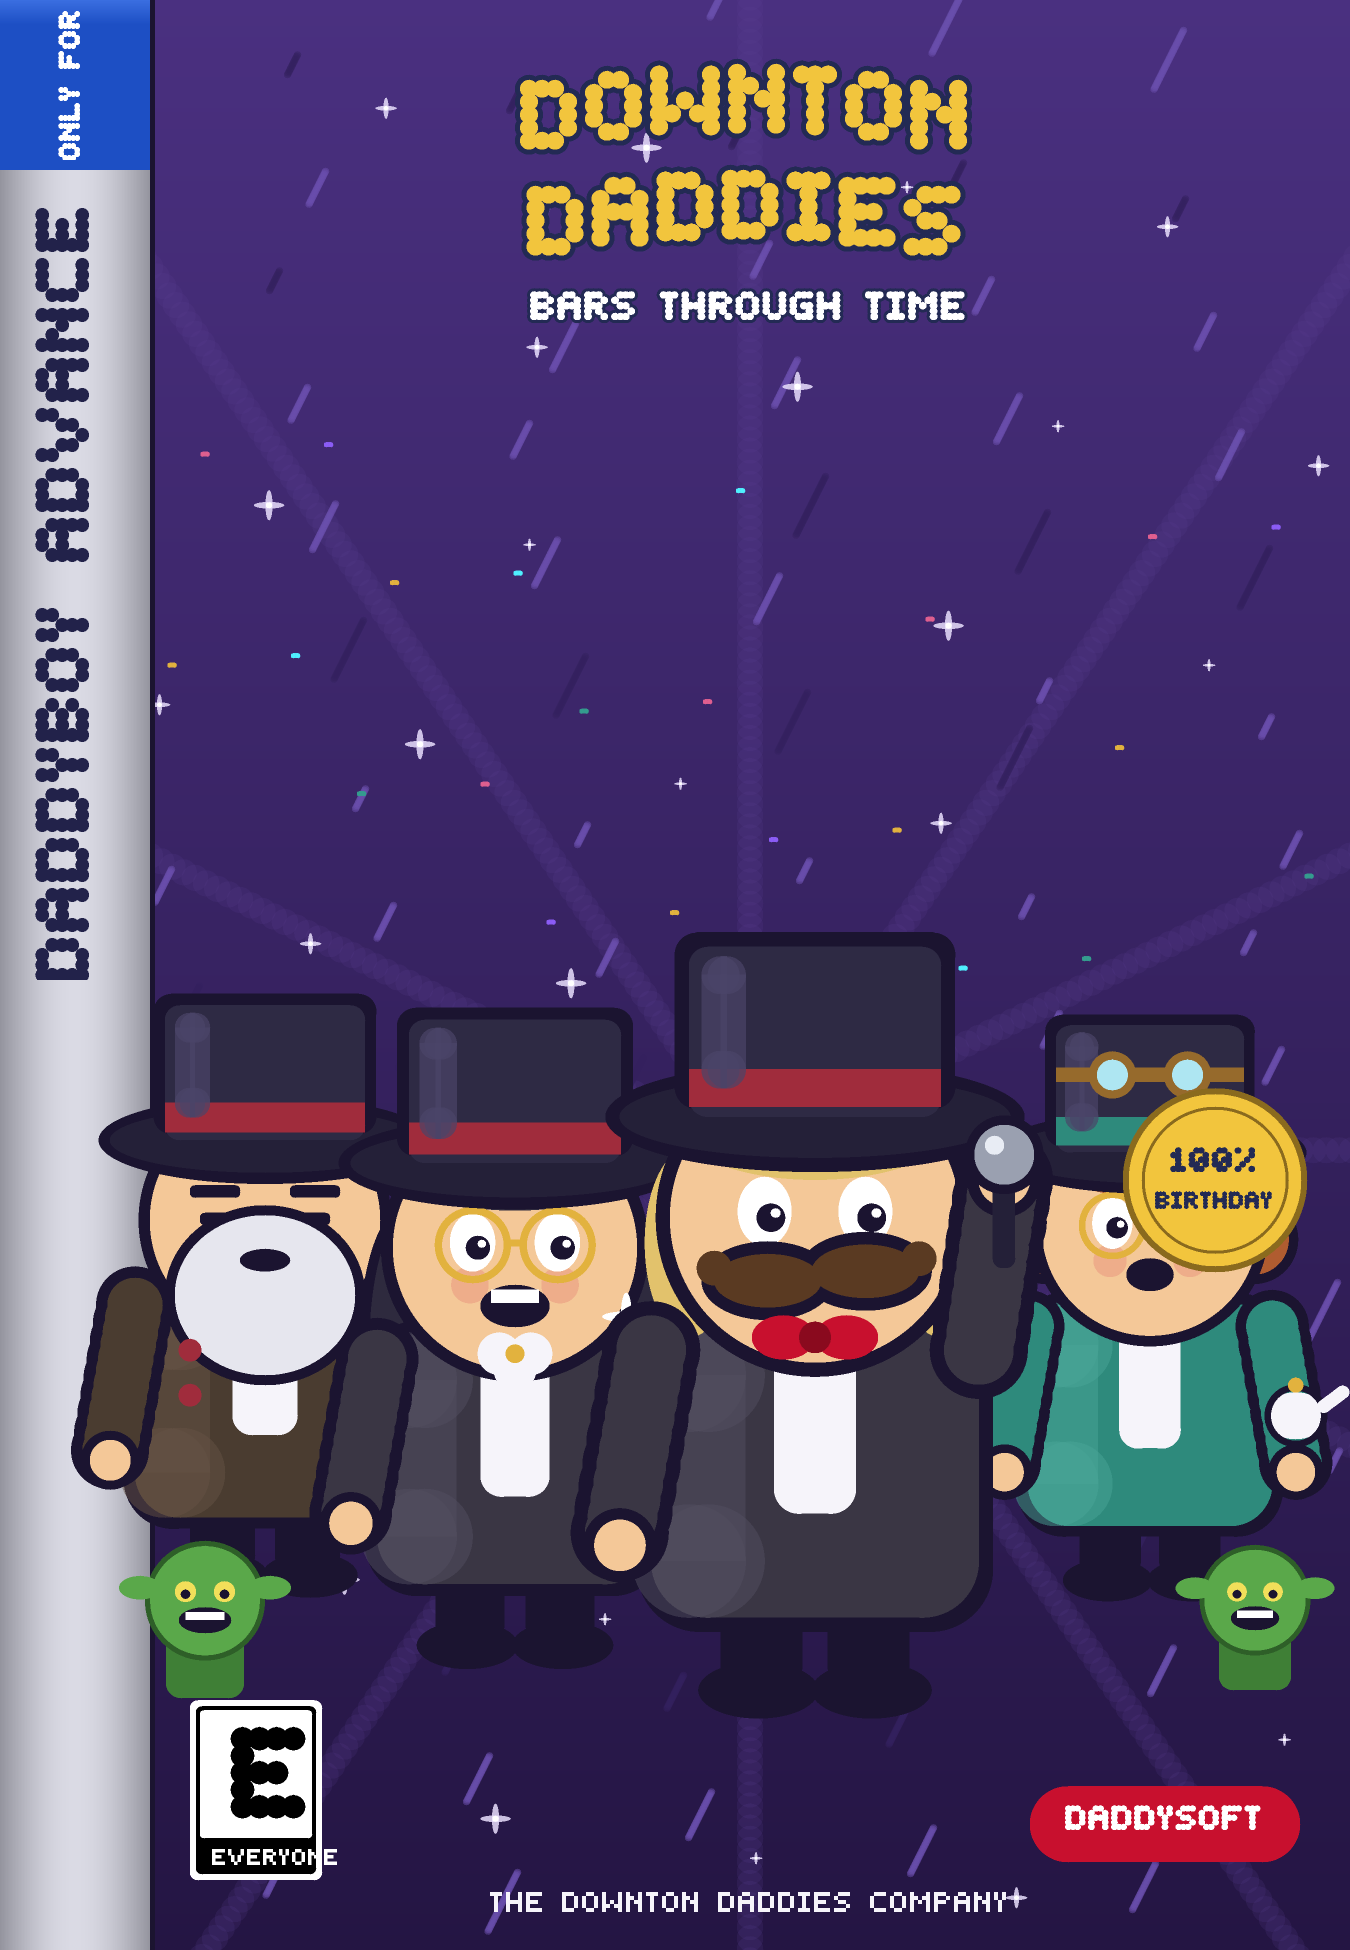
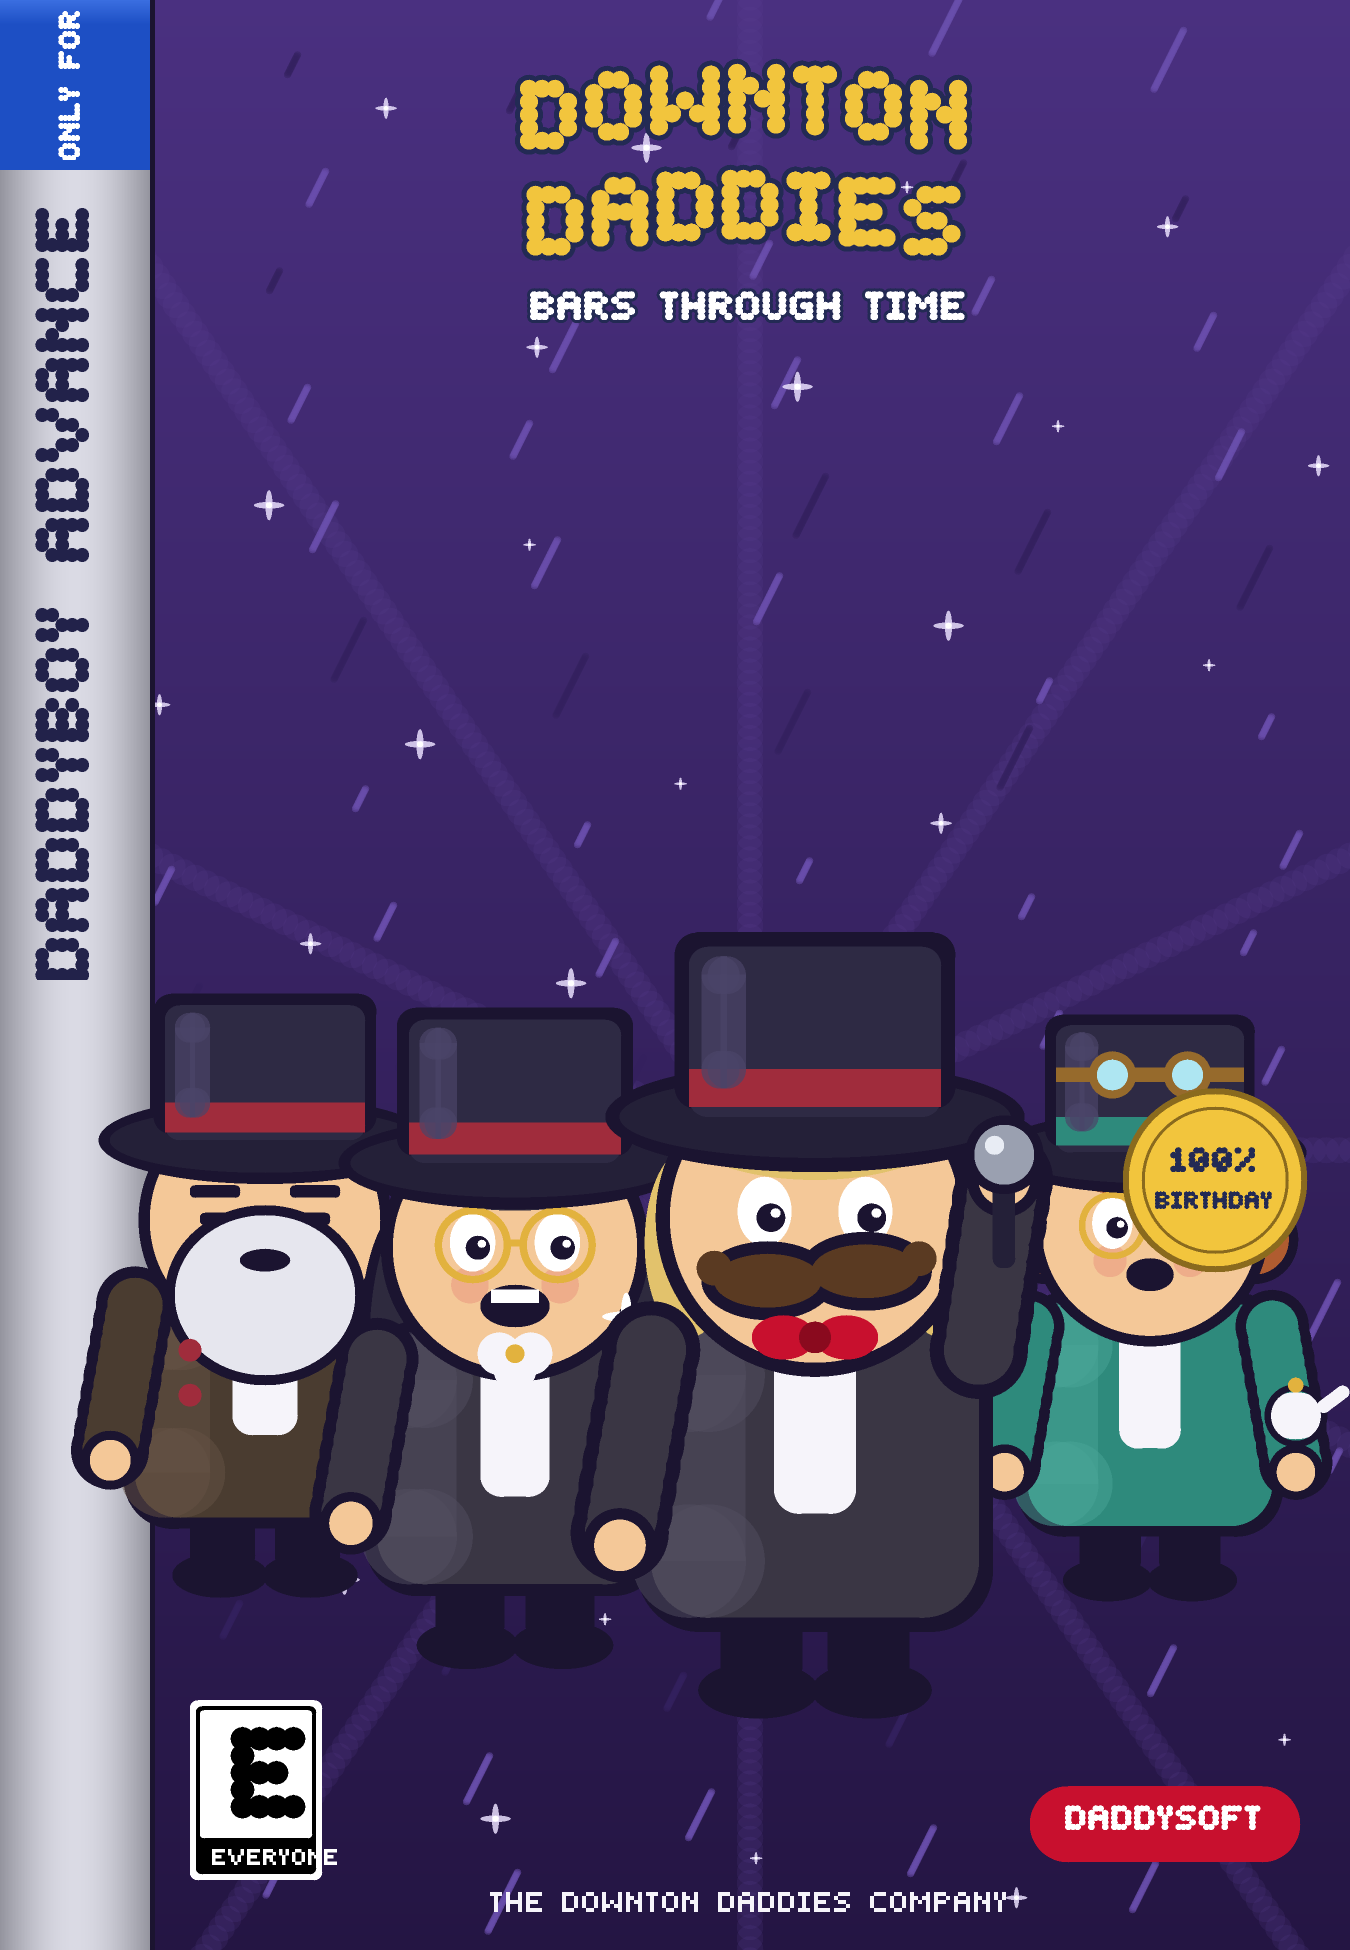
Box art v4: composite external anime-style hero art into the Emerald chrome
The front cover now takes a generated illustration (Downloads/cover-art.png|jpg,
or ART=path) and cover-fits it full-bleed under the authentic GBA chrome: silver
band, blue ONLY FOR tab, arched logo with legibility scrims, E-EVERYONE rating,
100% BIRTHDAY seal, DADDYSOFT oval. Falls back to the drawn field when no art
file exists. PNG+JPEG decoding via pngjs/jpeg-js (tool-side only).

Changed region(s): [[0.0933, 0.7692, 0.2178, 0.8923], [0.8711, 0.7692, 0.9956, 0.8923]]

diff --git a/tools/make-boxart.js b/tools/make-boxart.js
@@ -104,6 +104,40 @@ function save(buf, file) {
   console.log('  print/' + file + ' (1350x1950 @300dpi = 4.5x6.5in)');
 }
 
+/* ---------- external hero art (PNG/JPEG from an image generator) ---------- */
+const SCRATCH = '/private/tmp/claude-501/-Users-pationeill-Desktop-dd-advance-kit/c9853315-07c0-48fc-8efd-b6efac7ce17c/scratchpad/node_modules';
+function loadImage(p2) {
+  const b = fs.readFileSync(p2);
+  if (p2.match(/\.png$/i)) { const { PNG } = require(SCRATCH + '/pngjs'); const img = PNG.sync.read(b); return { w: img.width, h: img.height, data: img.data }; }
+  const jpeg = require(SCRATCH + '/jpeg-js'); const img = jpeg.decode(b, { maxMemoryUsageInMB: 1024 }); return { w: img.width, h: img.height, data: img.data };
+}
+function findArt() {
+  const cands = [process.env.ART,
+    '/Users/pationeill/Downloads/cover-art.png', '/Users/pationeill/Downloads/cover-art.jpg',
+    '/Users/pationeill/Downloads/cover-art.jpeg', '/Users/pationeill/Downloads/cover-art 2.png'].filter(Boolean);
+  for (const c of cands) if (fs.existsSync(c)) return c;
+  return null;
+}
+/* cover-fit `img` into buffer region (bilinear), cropping overflow centered */
+function coverBlit(buf, img, x0, y0, rw, rh) {
+  const sc = Math.max(rw / img.w, rh / img.h);
+  const cw = rw / sc, ch = rh / sc;                 // source crop size
+  const cx0 = (img.w - cw) / 2, cy0 = (img.h - ch) / 2;
+  for (let y = 0; y < rh; y++) for (let x = 0; x < rw; x++) {
+    const sx = cx0 + x / sc, sy = cy0 + y / sc;
+    const x1 = Math.min(img.w - 1, Math.floor(sx)), y1 = Math.min(img.h - 1, Math.floor(sy));
+    const x2 = Math.min(img.w - 1, x1 + 1), y2 = Math.min(img.h - 1, y1 + 1);
+    const fx = sx - x1, fy = sy - y1;
+    const di = ((y0 + y) * W + (x0 + x)) * 4;
+    for (let c = 0; c < 3; c++) {
+      const a = img.data[(y1 * img.w + x1) * 4 + c] * (1 - fx) + img.data[(y1 * img.w + x2) * 4 + c] * fx;
+      const b2 = img.data[(y2 * img.w + x1) * 4 + c] * (1 - fx) + img.data[(y2 * img.w + x2) * 4 + c] * fx;
+      buf[di + c] = a * (1 - fy) + b2 * fy;
+    }
+    buf[di + 3] = 255;
+  }
+}
+
 /* ---------- the glittery Emerald-style field (smooth, purple) ---------- */
 function field(K, cx, cy) {
   K.vgrad(0, 0, W, H, '#4a3080', '#241543');
@@ -289,7 +323,17 @@ console.log('composing front cover (smooth cartoon style)...');
 {
   const buf = makeBuf(); const K = kit(buf);
   const BAND = 150 * SS, CX = BAND + (W - BAND) / 2;
-  field(K, CX, 1150 * SS);
+  const artPath = findArt();
+  if (artPath) {
+    console.log('  hero art: ' + artPath);
+    coverBlit(buf, loadImage(artPath), BAND, 0, W - BAND, H);
+    /* soft scrims so the logo + bottom chrome pop over the painting */
+    for (let y = 0; y < 380 * SS; y++) { const a = 0.34 * (1 - y / (380 * SS)); K.rect(BAND, y, W - BAND, 1, '#1a0f2e', a); }
+    for (let y = 0; y < 220 * SS; y++) { const a = 0.4 * (y / (220 * SS)); K.rect(BAND, H - 220 * SS + y, W - BAND, 1, '#1a0f2e', a); }
+  } else {
+    console.log('  (no Downloads/cover-art.png yet — using the drawn field as placeholder)');
+    field(K, CX, 1150 * SS);
+  }
   /* vertical silver band */
   for (let x = 0; x < BAND; x++) { const t = x / BAND, v = Math.round(148 + 70 * Math.sin(t * Math.PI)); const c = [v, v, v + 10]; for (let y = 0; y < H; y++) K.set(x, y, c); }
   K.rect(BAND, 0, 5 * SS, H, INK);
@@ -311,16 +355,9 @@ console.log('composing front cover (smooth cartoon style)...');
   K.bubble('DOWNTON', CX - K.bubbleW('DOWNTON', 13 * SS) / 2, 66 * SS, 13 * SS, gold, navy, 5 * SS, 16 * SS);
   K.bubble('DADDIES', CX - K.bubbleW('DADDIES', 13 * SS) / 2, 172 * SS, 13 * SS, gold, navy, 5 * SS, 16 * SS);
   K.bubble('BARS THROUGH TIME', CX - K.bubbleW('BARS THROUGH TIME', 5.4 * SS) / 2, 292 * SS, 5.4 * SS, '#ffffff', navy, 3 * SS, 0);
-  /* ---- ALL FOUR DADS (smooth chibi cartoons) ---- */
-  drawHerschel(K, 265 * SS, 1575 * SS, 250 * SS);
-  drawRosalind(K, 1150 * SS, 1580 * SS, 235 * SS);
-  drawWilliam(K, 515 * SS, 1645 * SS, 265 * SS);
-  drawSamuel(K, 815 * SS, 1690 * SS, 315 * SS);
-  drawGoblin(K, 205 * SS, 1698 * SS, 130 * SS);
-  drawGoblin(K, 1255 * SS, 1690 * SS, 120 * SS);
-  /* confetti */
-  for (let i = 0; i < 22; i++) { const x = BAND + ((i * 379 + 71) % (W - BAND - 60)) + 30, y = 430 * SS + ((i * 257 + 43) % (560 * SS));
-    K.rrect(x, y, 9 * SS, 5 * SS, 2 * SS, ['#e05f8f', '#e2b23e', '#349c8e', '#8b5cf6', '#4ff0ff'][i % 5], 0.95); }
+  /* (hero art carries the characters; dads drawn in code only when no art exists) */
+  if (!artPath) { drawHerschel(K, 265 * SS, 1575 * SS, 250 * SS); drawRosalind(K, 1150 * SS, 1580 * SS, 235 * SS);
+    drawWilliam(K, 515 * SS, 1645 * SS, 265 * SS); drawSamuel(K, 815 * SS, 1690 * SS, 315 * SS); }
   /* gold 100% BIRTHDAY badge */
   K.circle(1215 * SS, 1180 * SS, 92 * SS, '#8a6a1e'); K.circle(1215 * SS, 1180 * SS, 86 * SS, gold);
   K.ring(1215 * SS, 1180 * SS, 72 * SS, 3 * SS, '#8a6a1e');